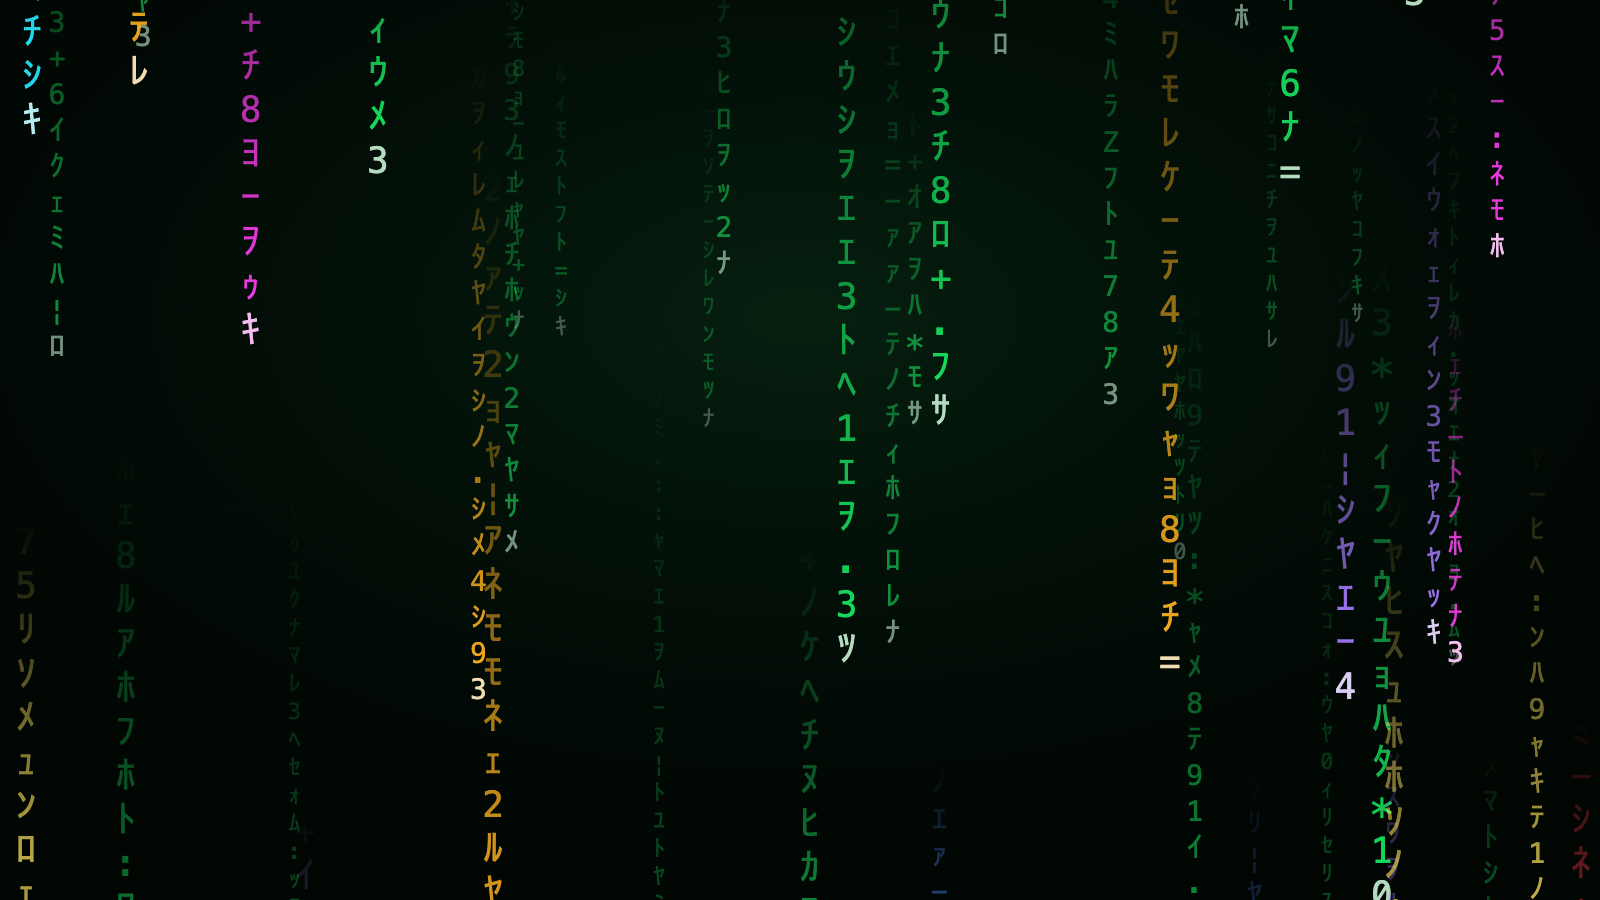
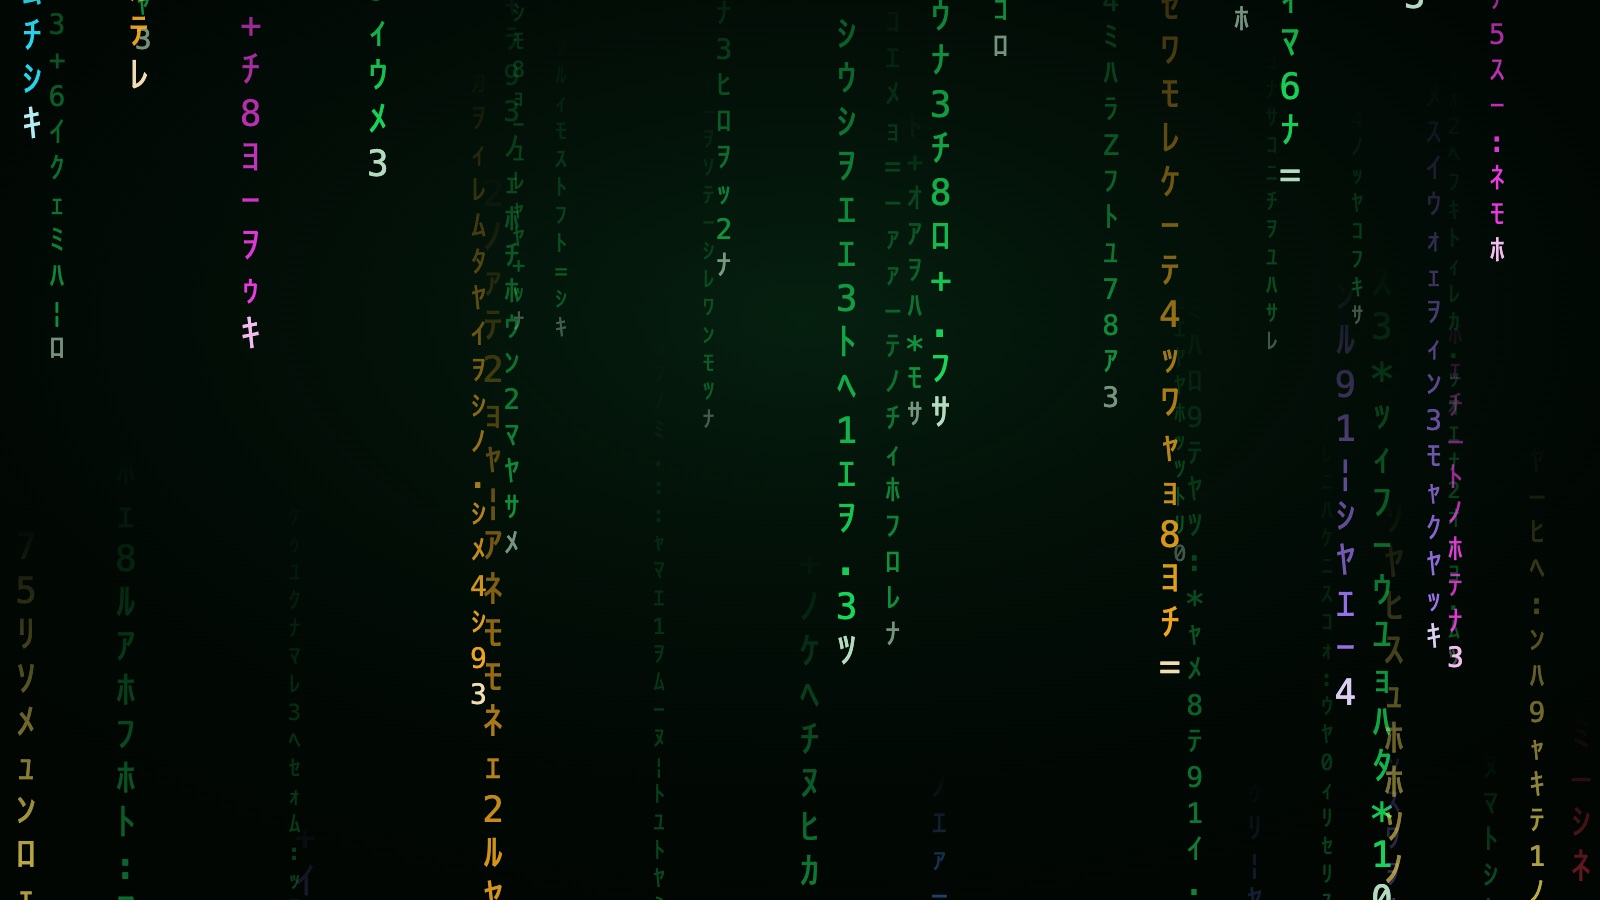
Matrix Rain: muted idle, softer text, calmer chat panel
- Idle is muted: no green light behind the rain, dimmer streams. A turn brings the light up in 1.2 s; it fades out over 3 s when the reply ends.
- Idle rain falls twice as slowly (14 times slower than while working).
- Body text nearly white with a trace of green (#e6f6eb, #bfdcc8, #9cc0a6): less mint glare, more contrast for faded labels.
- Denser, blurrier chat panel (opacity 0.84, blur 14) so streams don't cross the text.
- Tests check the light is off while idle and fades in on a turn; previews re-rendered.

diff --git a/themes/matrix-rain/hooks/scene.ts b/themes/matrix-rain/hooks/scene.ts
@@ -10,8 +10,9 @@ import type { Burst, Mood } from '../types'
 // window's own rain clock (`View`, kept by register.tsx): a redraw picks every
 // stream up where it was.
 
-// How much slower than busy the idle rain falls.
-export const K: Record<Mood, number> = { idle: 7, busy: 1 }
+// How much slower than busy the idle rain falls: idle, a stream takes from
+// about forty seconds to over two minutes to cross a laptop-sized window.
+export const K: Record<Mood, number> = { idle: 14, busy: 1 }
 
 // Streams fall to this far below the top. A window shorter than this just
 // gets a longer pause before the stream comes round again.
@@ -274,7 +275,18 @@ const burst = (b: Burst, now: number) => {
   return out
 }
 
-const OPACITY: Record<Mood, number> = { idle: 0.75, busy: 1 }
+// Idle is muted: dimmer rain and no green light behind it. A turn brings the
+// light up quickly; when it ends the light fades out slowly.
+const OPACITY: Record<Mood, number> = { idle: 0.55, busy: 1 }
+const GLOW: Record<Mood, number> = { idle: 0, busy: 1 }
+const FADE: Record<Mood, number> = { idle: 3, busy: 1.2 }
+
+// An attribute easing from the last mood's value to this one's, from when the
+// window saw the change; nothing when the mood didn't change.
+const ease = (view: View, now: number, of: Record<Mood, number>) =>
+  view.from === view.mood
+    ? ''
+    : `<animate attributeName="opacity" from="${of[view.from]}" to="${of[view.mood]}" dur="${FADE[view.mood]}s" begin="${(view.tR - now).toFixed(2)}s" fill="freeze"/>`
 
 export const scene = (view: View, bursts: Burst[], now: number): string => {
   const k = K[view.mood]
@@ -285,11 +297,6 @@ export const scene = (view: View, bursts: Burst[], now: number): string => {
   } else if (view.from === 'busy') {
     rain += STORM.map(c => leaving(c, view, now)).join('')
   }
-  // The whole rain eases to its new brightness instead of stepping.
-  const ease =
-    view.from === view.mood
-      ? ''
-      : `<animate attributeName="opacity" from="${OPACITY[view.from]}" to="${OPACITY[view.mood]}" dur="1.2s" begin="${(view.tR - now).toFixed(2)}s" fill="freeze"/>`
   // Newest first, until the app's 131,072-character limit is near.
   let drawn = ''
   const used: string[] = []
@@ -315,8 +322,8 @@ ${colors.map(gradient).join('\n')}
 ${CELLS}
 </defs>
 <rect width="100%" height="100%" fill="#010603"/>
-<rect width="100%" height="100%" fill="url(#glow)"/>
-<g opacity="${OPACITY[view.mood]}">${ease}${rain}</g>
+<rect width="100%" height="100%" fill="url(#glow)" opacity="${GLOW[view.mood]}">${ease(view, now, GLOW)}</rect>
+<g opacity="${OPACITY[view.mood]}">${ease(view, now, OPACITY)}${rain}</g>
 <g>${drawn}</g>
 </svg>`
 }

diff --git a/themes/matrix-rain/tests/matrix-rain.test.tsx b/themes/matrix-rain/tests/matrix-rain.test.tsx
@@ -14,6 +14,8 @@ test('the backdrop is one slow Svg while idle', async ($, on) => {
   const svg = (await ui.find({ type: 'Svg' })) as any
   expect(svg).toBeDefined()
   expect(svg.props.alt).toMatch(/slowly/)
+  // Muted: the green light behind the rain is off.
+  expect(svg.props.source).toMatch(/fill="url\(#glow\)" opacity="0"/)
   expect(svg.props.source).not.toMatch(/viewBox|vw|vh|calc\(|@media|@keyframes|<marker/)
   expect(svg.props.source.length).toBeLessThan(131072)
   await ui.unmount()
@@ -30,14 +32,18 @@ test('a turn makes it pour, and a tool call drops streams in its colour', async 
   on('command.register', () => ({ value: { command: 'matrix' } }))
   on('theme.set', () => ({ value: { isDrawn: true, requestId: 'theme' } }))
   await $.session.start({ cwd: '/', surface: 'desktop', isInteractive: true } as any)
+  // The window shows the idle rain first, so the turn is a change it sees.
+  const ui = await $.ui.mount(BACKDROP)
+  await ui.find({ type: 'Svg' })
   await $.turn.start({ text: 'hi', turnId: 't1' } as any)
   // Past the gap since the turn's own redraw, so the call draws at once.
   ms += 5000
   await $.tool.call({ tool: 'Read', tool_use_id: 'u1', input: { file_path: '/x' } } as any)
 
-  const ui = await $.ui.mount(BACKDROP)
   const svg = (await ui.find({ type: 'Svg' })) as any
   expect(svg.props.alt).toMatch(/fast/)
+  // The light comes up as the turn starts.
+  expect(svg.props.source).toMatch(/fill="url\(#glow\)" opacity="1"><animate attributeName="opacity" from="0" to="1"/)
   expect(svg.props.source).toMatch(/#26e7ff/)
   // The letters that change: shared cells, placed down the streams.
   expect(svg.props.source).toMatch(/<use href="#f\d+"/)

diff --git a/themes/matrix-rain/hooks/register.tsx b/themes/matrix-rain/hooks/register.tsx
@@ -82,9 +82,12 @@ const { theme } = makeColors({
         'surface-1': '#06110a',
         'surface-2': '#09160d',
         'surface-3': '#0b1a10',
-        'text-primary': '#d9ffe3',
-        'text-secondary': '#a6e8b7',
-        'text-muted': '#78bd8a',
+        // Nearly neutral, with a trace of green: a strong mint glows on
+        // black and reads soft. Kept this bright on purpose: the app draws
+        // its faded labels as this colour at about 55% opacity.
+        'text-primary': '#e6f6eb',
+        'text-secondary': '#bfdcc8',
+        'text-muted': '#9cc0a6',
       },
     },
   },
@@ -94,7 +97,9 @@ const { theme } = makeColors({
 
 const LOOK: ThemeSetArgs = {
   colors: theme,
-  backdrop: { scene: SCENE, glass: { blur: 10, tint: '#020805', opacity: 0.74 } },
+  // The panel behind the chat: dense enough that streams passing behind the
+  // text are a soft glow, not moving noise.
+  backdrop: { scene: SCENE, glass: { blur: 14, tint: '#020805', opacity: 0.84 } },
 }
 
 const RED = '#ff3346'

diff --git a/themes/matrix-rain/README.md b/themes/matrix-rain/README.md
@@ -12,8 +12,8 @@ A theme for the Claude desktop app: green code raining down behind the conversat
 
 The pictures are the theme's own scene, rendered by `node tools/make-previews.mts`. In the app, the chat sits on a frosted panel down the middle, so the rain shows most in the margins.
 
-- **Idle:** about fifty streams drift down very slowly, in three depths (small and dim at the back, large and bright at the front).
-- **While Claude works:** the rain speeds up about seven times and more streams join from the top. When the reply ends, the extra streams finish their fall and the rain slows again, with no jump.
+- **Idle:** muted. About fifty dim streams drift down very slowly, in three depths (small and faint at the back, larger at the front), on plain black.
+- **While Claude works:** a green light comes up behind the rain, the rain brightens and speeds up about fourteen times, and more streams join from the top. When the reply ends, the extra streams finish their fall and the rain slows again, with no jump.
 - **Letters change as they fall:** a few letters along each trail flicker to new glyphs, and each stream's bright head scrambles.
 - **Tool calls:** every tool call drops a handful of fast, bright streams in a colour for the kind of work:
 
@@ -29,7 +29,7 @@ The pictures are the theme's own scene, rendered by `node tools/make-previews.mt
   | Red | a tool call that failed |
 
 - **A chime** when Claude finishes a reply: a short cascade of digital blips over a low hum. Not played for a reply you stopped.
-- A near-black green palette for dark mode, with a frosted panel behind the chat so text stays readable. No status bar or band.
+- A near-black green palette for dark mode, with soft, nearly white text and a dense frosted panel behind the chat, so the rain glows behind the conversation without crossing the words. No status bar or band.
 
 ## Install
 
